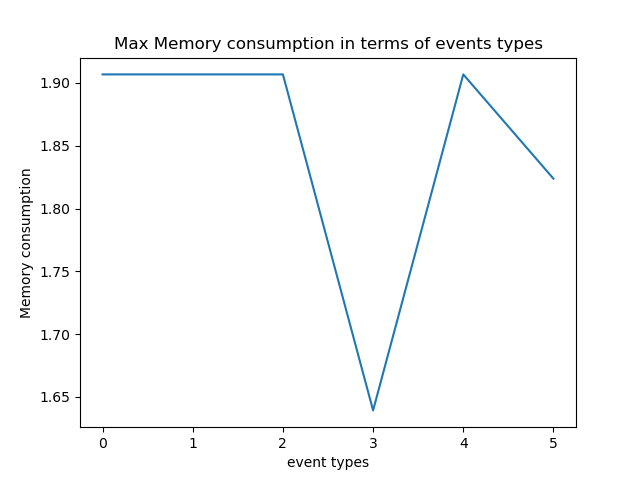
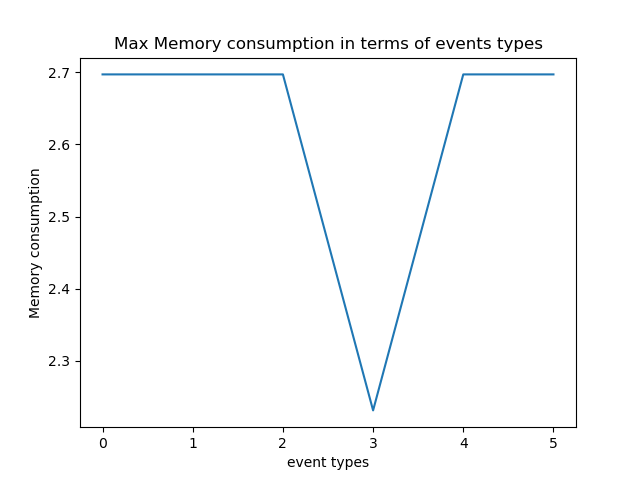
adding multiple files, & updating graphs

diff --git a/spark-google.py b/spark-google.py
@@ -1,3 +1,4 @@
+import os
 from pyspark import SparkContext
 import matplotlib.pyplot as plt
 import numpy as np
@@ -11,162 +12,191 @@ def main():
 	# start spark with 1 worker thread
 	sc = SparkContext("local[1]")
 	sc.setLogLevel("ERROR")
-	val = int(input("Please enter the number of your question: "))
+	val=0
+	while val!="":
+		val = input("Please enter the number of your question, or press ENTER to quit: ")
+		if val=="" :
+			break
+		else:
+			val=int(val)
+		
+		if val==2:
+		# 2. What is the percentage of computational power lost due to maintenance (a machine went offline and reconnected later)?
+			# read the input file into an RDD[String], there is only one file in the dataset
+			machine_events = sc.textFile("machine_events/part-00000-of-00001.csv")
+
+			# split each line into an array of items
+			machine_events = machine_events.map(lambda x : x.split(','))
+
+			# keep the RDD in memory
+			machine_events.cache()
+
+			offline_machines=machine_events.filter(lambda m: m[2]=='1').map(lambda m: (m[1],int(m[0]))).groupByKey().map(lambda m: (m[0],sorted(m[1]) ))# get (machine ID, sorted disconnection timestamps) since a machine can disconnect several times
+			offline_IDs=offline_machines.keys().collect()
+			first_disc_tmps=offline_machines.map(lambda o:(o[0],(o[1][0],len(o[1])))).collectAsMap() # get for each machine its first disconection timestamp for comparison with reconnection, as well as the number of disconnections
+			
+			#Find reconnected machines with their reconnection timestamps
+			reconnected_machines=machine_events.filter(lambda me: me[1] in offline_IDs and int(me[0])>first_disc_tmps[me[1]][0] and me[2]=='0').map(lambda m: (m[1],int(m[0]))).groupByKey().map(lambda m: (m[0],sorted(m[1])[:first_disc_tmps[m[0]][1]])) # get (machine ID, sorted reconnection timestamps of same size as disconnections array)
+			rec_IDs=[int(id) for id in reconnected_machines.keys().collect()]
+			disconnection_time=reconnected_machines.join(offline_machines).map(lambda x: (x[0],substract_arrays(x[1]))) # get disconnection times for all reconnected machines (machine ID, disconnection time periods)
+			#Note: We tried to use foreach(do substruction) but we always get None
+
+			# Calculate total CPU power loss for all machines and then sum to get the total CPU power loss on the cluster
+			cpu_capacities= machine_events.filter(lambda m: int(m[1]) in rec_IDs and m[4]!='' and m[5]!='').map(lambda m: (m[1],float(m[4]))).groupByKey().map(lambda m: (m[0],list(m[1])[0]))
+			cpu_losses=disconnection_time.join(cpu_capacities).distinct().map(lambda c: sum([c[1][1]*x for x in c[1][0]])).collect()
+			#print('CPU losses on different machines due to maintenance are:',cpu_losses)
+			print('Total CPU loss on the Google cluster due to maintenance is:',sum(cpu_losses))
+
+			# Calculate total memory power loss for all machines and then sum to get the total memory power loss on the cluster
+			memory_capacities= machine_events.filter(lambda m: int(m[1]) in rec_IDs and m[4]!='' and m[5]!='').map(lambda m: (m[1],float(m[5]))).groupByKey().map(lambda m: (m[0],list(m[1])[0]))
+			memory_losses=disconnection_time.join(memory_capacities).distinct().map(lambda c: sum([c[1][1]*x for x in c[1][0]])).collect()
+			#print('Memory losses on different machines due to maintenance are:',memory_losses)
+			print('Total memory loss on the Google cluster due to maintenance is:',sum(memory_losses))
+			
+			X_axis = np.arange(99)
 	
-	if val==2:
-	# 2. What is the percentage of computational power lost due to maintenance (a machine went offline and reconnected later)?
-		# read the input file into an RDD[String]
-		machine_events = sc.textFile("machine_events/part-00000-of-00001.csv")
-
-		# split each line into an array of items
-		machine_events = machine_events.map(lambda x : x.split(','))
-
-		# keep the RDD in memory
-		machine_events.cache()
-
-		offline_machines=machine_events.filter(lambda m: m[2]=='1').map(lambda m: (m[1],int(m[0]))).groupByKey().map(lambda m: (m[0],sorted(m[1]) ))# get (machine ID, sorted disconnection timestamps) since a machine can disconnect several times
-		offline_IDs=offline_machines.keys().collect()
-		first_disc_tmps=offline_machines.map(lambda o:(o[0],(o[1][0],len(o[1])))).collectAsMap() # get for each machine its first disconection timestamp for comparison with reconnection, as well as the number of disconnections
-		
-		#Find reconnected machines with their reconnection timestamps
-		reconnected_machines=machine_events.filter(lambda me: me[1] in offline_IDs and int(me[0])>first_disc_tmps[me[1]][0] and me[2]=='0').map(lambda m: (m[1],int(m[0]))).groupByKey().map(lambda m: (m[0],sorted(m[1])[:first_disc_tmps[m[0]][1]])) # get (machine ID, sorted reconnection timestamps of same size as disconnections array)
-		rec_IDs=[int(id) for id in reconnected_machines.keys().collect()]
-		disconnection_time=reconnected_machines.join(offline_machines).map(lambda x: (x[0],substract_arrays(x[1]))) # get disconnection times for all reconnected machines (machine ID, disconnection time periods)
-		#Note: We tried to use foreach(do substruction) but we always get None
-
-		# Calculate total CPU power loss for all machines and then sum to get the total CPU power loss on the cluster
-		cpu_capacities= machine_events.filter(lambda m: int(m[1]) in rec_IDs and m[4]!='' and m[5]!='').map(lambda m: (m[1],float(m[4]))).groupByKey().map(lambda m: (m[0],list(m[1])[0]))
-		cpu_losses=disconnection_time.join(cpu_capacities).distinct().map(lambda c: sum([c[1][1]*x for x in c[1][0]])).collect()
-		#print('CPU losses on different machines due to maintenance are:',cpu_losses)
-		print('Total CPU loss on the Google cluster due to maintenance is:',sum(cpu_losses))
-
-		# Calculate total memory power loss for all machines and then sum to get the total memory power loss on the cluster
-		memory_capacities= machine_events.filter(lambda m: int(m[1]) in rec_IDs and m[4]!='' and m[5]!='').map(lambda m: (m[1],float(m[5]))).groupByKey().map(lambda m: (m[0],list(m[1])[0]))
-		memory_losses=disconnection_time.join(memory_capacities).distinct().map(lambda c: sum([c[1][1]*x for x in c[1][0]])).collect()
-		#print('Memory losses on different machines due to maintenance are:',memory_losses)
-		print('Total memory loss on the Google cluster due to maintenance is:',sum(memory_losses))
-		
-		X_axis = np.arange(99)
-  
-		plt.bar(X_axis - 0.2, cpu_losses[:99], 0.4, label = 'CPU losses')
-		plt.bar(X_axis + 0.2, memory_losses[:99], 0.4, label = 'Memory losses')
-		
-		plt.xticks(X_axis, X_axis)
-		plt.xlabel("Maintained machines")
-		plt.ylabel("Power loss")
-		plt.title("Computational power losses for maintained machines")
-		plt.legend()
-		plt.show()
+			plt.bar(X_axis - 0.2, cpu_losses[:99], 0.4, label = 'CPU losses')
+			plt.bar(X_axis + 0.2, memory_losses[:99], 0.4, label = 'Memory losses')
+			
+			plt.xticks(X_axis, X_axis)
+			plt.xlabel("Maintained machines")
+			plt.ylabel("Power loss")
+			plt.title("Computational power losses for maintained machines")
+			plt.legend()
+			plt.show()
 
 
-	elif val==4:
+		elif val==4:
 
-	# 4. Do tasks with a low scheduling class have a higher probability of being evicted?
+		# 4. Do tasks with a low scheduling class have a higher probability of being evicted?
 
-		# read the input file into an RDD[String]
-		task_events = sc.textFile("task_events/part-00000-of-00500.csv")
+			# read the input files into an RDD[String]
+			task_events = sc.parallelize([])
+			files=os.listdir("task_events/")
+			for file in files:
+				task_events_rdd = sc.textFile("task_events/"+file)
+				task_events = task_events.union(task_events_rdd)
 
-		# split each line into an array of items
-		task_events = task_events.map(lambda x : x.split(','))
+			# split each line into an array of items
+			task_events = task_events.map(lambda x : x.split(','))
 
-		# keep the RDD in memory
-		task_events.cache()
-		# filter data by leaving only evicted tasks
-		filtered = task_events.filter(lambda t: t[5]=='2')
-		size=filtered.count()
+			# keep the RDD in memory
+			task_events.cache()
+			# filter data by leaving only evicted tasks
+			filtered = task_events.filter(lambda t: t[5]=='2')
+			size=filtered.count()
 
-		# map to each scheduling class the portion of its evicted tasks
-		pairs = filtered.map(lambda f: (f[7],1/size)).reduceByKey(lambda a, b: (a + b))
-		pairs=pairs.sortByKey().collectAsMap()
-		print(pairs)
-		plt.bar(pairs.keys(),pairs.values(),align='center')
-		plt.title('Distribution of evicted tasks over scheduling classes')
-		plt.xlabel('scheduling class')
-		plt.ylabel('Probability of task eviction')
-		plt.show()
-		
+			# map to each scheduling class the portion of its evicted tasks
+			pairs = filtered.map(lambda f: (f[7],1/size)).reduceByKey(lambda a, b: (a + b))
+			pairs=pairs.sortByKey().collectAsMap()
+			print(pairs)
+			plt.bar(pairs.keys(),pairs.values(),align='center')
+			plt.title('Distribution of evicted tasks over scheduling classes')
+			plt.xlabel('scheduling class')
+			plt.ylabel('Probability of task eviction')
+			plt.show()
+			
 
-	elif val==6:
+		elif val==6:
 
-	# 6. Are the tasks that request the more resources the ones that consume the more resources?
-		# read the input file into an RDD[String]
-		task_events = sc.textFile("task_events/part-00000-of-00500.csv")
+		# 6. Are the tasks that request the more resources the ones that consume the more resources?
+			# read the input files into an RDD[String]
+			task_events = sc.parallelize([])
+			files=os.listdir("task_events/")
+			for file in files:
+				task_events_rdd = sc.textFile("task_events/"+file)
+				task_events = task_events.union(task_events_rdd)
 
-		# split each line into an array of items
-		task_events = task_events.map(lambda x : x.split(','))
+			# split each line into an array of items
+			task_events = task_events.map(lambda x : x.split(','))
 
-		# keep the RDD in memory
-		task_events.cache()
-		filtered=task_events.filter(lambda t: t[9]!='' and t[10]!='' and t[11]!='') # remove tasks whose resource requests are not specified
-		# extract tasks that request big resources (CPU, RAM, local disk resource request > 0.5)
-		tasks_big=filtered.filter(lambda t: float(t[9])>0.5 or float(t[10])>0.5 or float(t[11])>0.5) 
-		tasks_big=tasks_big.map(lambda t: (t[2]+t[3])).distinct()
-		# import data and filter it (by removing rows that has missing values of resource request)
-		resource_usage=sc.textFile("resource_usage/part-00000-of-00500.csv")
-		filtered=resource_usage.filter(lambda t: t[5]!='' and t[6]!='' and t[12]!='')
-		# extract tasks that consume big resources
-		rsc_big=filtered.filter(lambda t: float(t[5])>0.5 or float(t[6])>0.5 or float(t[12])>0.5).map(lambda t: (t[2]+t[3])).distinct()
-		nb_tasks_big_rsc=rsc_big.join(tasks_big).count()
-		print(nb_tasks_big_rsc/rsc_big.count())
+			# keep the RDD in memory
+			task_events.cache()
+			filtered=task_events.filter(lambda t: t[9]!='' and t[10]!='' and t[11]!='') # remove tasks whose resource requests are not specified
+			# extract tasks that request big resources (CPU, RAM, local disk resource request > 0.5)
+			tasks_big=filtered.filter(lambda t: float(t[9])>0.5 or float(t[10])>0.5 or float(t[11])>0.5) 
+			tasks_big=tasks_big.map(lambda t: (t[2]+t[3])).distinct()
 
-	elif val==7:
-	# 7. Can we observe correlations between peaks of high resource consumption on some machines and task eviction events?
-		# import data and filter it (by removing rows that has missing values of resource request)
-		resource_usage=sc.textFile("resource_usage/part-00000-of-00500.csv")
-		# split each line into an array of items
-		resource_usage = resource_usage.map(lambda x : x.split(','))
-		# keep the RDD in memory
-		resource_usage.cache()
-		# read the input file into an RDD[String]
-		task_events = sc.textFile("task_events/part-00000-of-00500.csv")
-		# split each line into an array of items
-		task_events = task_events.map(lambda x : x.split(','))
-		# keep the RDD in memory
-		task_events.cache()
+			# read the input files into an RDD[String]
+			resource_usage = sc.parallelize([])
+			files=os.listdir("resource_usage/")
+			for file in files:
+				rsc_usage_rdd = sc.textFile("resource_usage/"+file)
+				resource_usage = resource_usage.union(rsc_usage_rdd)
 
-		## a) CPU consumption
-		filtered=resource_usage.filter(lambda t: t[5]!='' and t[6]!='')
-		tasks_cpu_usage=filtered.map(lambda t: (t[2]+t[3],float(t[5]))) #get cpu usage for all tasks
-		tasks_mem_usage=filtered.map(lambda t: (t[2]+t[3],float(t[6]))) #get memory usage for all tasks
-		tasks_ldisk_usage=filtered.map(lambda t: (t[2]+t[3],float(t[12]))) #get local disk usage for all tasks
-		
-		filtered=task_events.filter(lambda t: t[4]!='' and t[9]!='' and t[10]!='' and t[11]!='') # clean our data 
-		tasks=filtered.map(lambda t: (t[2]+t[3],(t[4],t[5])))
-		tasks_max_cpu=tasks.join(tasks_cpu_usage).map(lambda t: (t[0],t[1][1])).reduceByKey(max) # get (taskID, max cpu usage)
-		machines=tasks_max_cpu.join(tasks).map(lambda t: (t[1][1][0],t[1][0])) # get(machine ID, max task cpu usage)
-		total_cpu_usg_per_machine=machines.reduceByKey(lambda a, b: a + b)# get (machine ID, total cpu usage))
-		events=tasks.map(lambda t: (t[1][0],t[1][1])) #get (machine ID, event type)
+			filtered=resource_usage.filter(lambda t: t[5]!='' and t[6]!='' and t[12]!='')
+			# extract tasks that consume big resources
+			rsc_big=filtered.filter(lambda t: float(t[5])>0.5 or float(t[6])>0.5 or float(t[12])>0.5).map(lambda t: (t[2]+t[3])).distinct()
+			nb_tasks_big_rsc=rsc_big.join(tasks_big).count()
+			print("Percentage of tasks consuming big resources among those requesting big resources: ",nb_tasks_big_rsc/rsc_big.count())
 
-		joined_rdd=events.join(total_cpu_usg_per_machine).map(lambda t: (t[1][0],t[1][1])).reduceByKey(max).sortByKey().collect()# get (event type, total cpu usage)
-		plt.plot(*zip(*joined_rdd))
-		plt.title('Max CPU consumption in terms of events types')
-		plt.xlabel('event types')
-		plt.ylabel('CPU consumption')
-		plt.show()
+		elif val==7:
+		# 7. Can we observe correlations between peaks of high resource consumption on some machines and task eviction events?
+			# read the input files into an RDD[String]
+			resource_usage = sc.parallelize([])
+			files=os.listdir("resource_usage/")
+			for file in files:
+				rsc_usage_rdd = sc.textFile("resource_usage/"+file)
+				resource_usage = resource_usage.union(rsc_usage_rdd)
+			# split each line into an array of items
+			resource_usage = resource_usage.map(lambda x : x.split(','))
+			# keep the RDD in memory
+			resource_usage.cache()
 
-		## b) Memory consumption
-		tasks_max_mem=tasks.join(tasks_mem_usage).map(lambda t: (t[0],t[1][1])).reduceByKey(max) # get (taskID, max memory usage)
-		machines=tasks_max_mem.join(tasks).map(lambda t: (t[1][1][0],t[1][0])) # get(machine ID, max task mem usage)
-		total_mem_usg_per_machine=machines.reduceByKey(lambda a, b: a + b)# get (machine ID, total memory usage))
+			# read the input files into an RDD[String]
+			task_events = sc.parallelize([])
+			files=os.listdir("task_events/")
+			for file in files:
+				task_events_rdd = sc.textFile("task_events/"+file)
+				task_events = task_events.union(task_events_rdd)
+			# split each line into an array of items
+			task_events = task_events.map(lambda x : x.split(','))
+			# keep the RDD in memory
+			task_events.cache()
 
-		joined_rdd=events.join(total_mem_usg_per_machine).map(lambda t: (t[1][0],t[1][1])).reduceByKey(max).sortByKey().collect()# get (event type, total memory usage)
-		plt.plot(*zip(*joined_rdd))
-		plt.title('Max Memory consumption in terms of events types')
-		plt.xlabel('event types')
-		plt.ylabel('Memory consumption')
-		plt.show()
+			## a) CPU consumption
+			filtered=resource_usage.filter(lambda t: t[5]!='' and t[6]!='')
+			tasks_cpu_usage=filtered.map(lambda t: (t[2]+t[3],float(t[5]))) #get cpu usage for all tasks
+			tasks_mem_usage=filtered.map(lambda t: (t[2]+t[3],float(t[6]))) #get memory usage for all tasks
+			tasks_ldisk_usage=filtered.map(lambda t: (t[2]+t[3],float(t[12]))) #get local disk usage for all tasks
+			
+			filtered=task_events.filter(lambda t: t[4]!='' and t[9]!='' and t[10]!='' and t[11]!='') # clean our data 
+			tasks=filtered.map(lambda t: (t[2]+t[3],(t[4],t[5])))
+			tasks_max_cpu=tasks.join(tasks_cpu_usage).map(lambda t: (t[0],t[1][1])).reduceByKey(max) # get (taskID, max cpu usage)
+			machines=tasks_max_cpu.join(tasks).map(lambda t: (t[1][1][0],t[1][0])) # get(machine ID, max task cpu usage)
+			total_cpu_usg_per_machine=machines.reduceByKey(lambda a, b: a + b)# get (machine ID, total cpu usage))
+			events=tasks.map(lambda t: (t[1][0],t[1][1])) #get (machine ID, event type)
 
-		## c) Local disk
-		tasks_max_disk=tasks.join(tasks_ldisk_usage).map(lambda t: (t[0],t[1][1])).reduceByKey(max) # get (taskID, max local disk usage)
-		machines=tasks_max_disk.join(tasks).map(lambda t: (t[1][1][0],t[1][0])) # get(machine ID, max task local disk usage)
-		total_ld_usg_per_machine=machines.reduceByKey(lambda a, b: a + b)# get (machine ID, total local disk usage))
+			joined_rdd=events.join(total_cpu_usg_per_machine).map(lambda t: (t[1][0],t[1][1])).reduceByKey(max).sortByKey().collect()# get (event type, total cpu usage)
+			plt.plot(*zip(*joined_rdd))
+			plt.title('Max CPU consumption in terms of events types')
+			plt.xlabel('event types')
+			plt.ylabel('CPU consumption')
+			plt.show()
 
-		joined_rdd=events.join(total_ld_usg_per_machine).map(lambda t: (t[1][0],t[1][1])).reduceByKey(max).sortByKey().collect()# get (event type, total local disk usage)
-		plt.plot(*zip(*joined_rdd))
-		plt.title('Max Local Disk consumption in terms of events types')
-		plt.xlabel('event types')
-		plt.ylabel('Local Disk consumption')
-		plt.show()
+			## b) Memory consumption
+			tasks_max_mem=tasks.join(tasks_mem_usage).map(lambda t: (t[0],t[1][1])).reduceByKey(max) # get (taskID, max memory usage)
+			machines=tasks_max_mem.join(tasks).map(lambda t: (t[1][1][0],t[1][0])) # get(machine ID, max task mem usage)
+			total_mem_usg_per_machine=machines.reduceByKey(lambda a, b: a + b)# get (machine ID, total memory usage))
+
+			joined_rdd=events.join(total_mem_usg_per_machine).map(lambda t: (t[1][0],t[1][1])).reduceByKey(max).sortByKey().collect()# get (event type, total memory usage)
+			plt.plot(*zip(*joined_rdd))
+			plt.title('Max Memory consumption in terms of events types')
+			plt.xlabel('event types')
+			plt.ylabel('Memory consumption')
+			plt.show()
+
+			## c) Local disk
+			tasks_max_disk=tasks.join(tasks_ldisk_usage).map(lambda t: (t[0],t[1][1])).reduceByKey(max) # get (taskID, max local disk usage)
+			machines=tasks_max_disk.join(tasks).map(lambda t: (t[1][1][0],t[1][0])) # get(machine ID, max task local disk usage)
+			total_ld_usg_per_machine=machines.reduceByKey(lambda a, b: a + b)# get (machine ID, total local disk usage))
+
+			joined_rdd=events.join(total_ld_usg_per_machine).map(lambda t: (t[1][0],t[1][1])).reduceByKey(max).sortByKey().collect()# get (event type, total local disk usage)
+			plt.plot(*zip(*joined_rdd))
+			plt.title('Max Local Disk consumption in terms of events types')
+			plt.xlabel('event types')
+			plt.ylabel('Local Disk consumption')
+			plt.show()
 
 if __name__=="__main__":
 	main()
